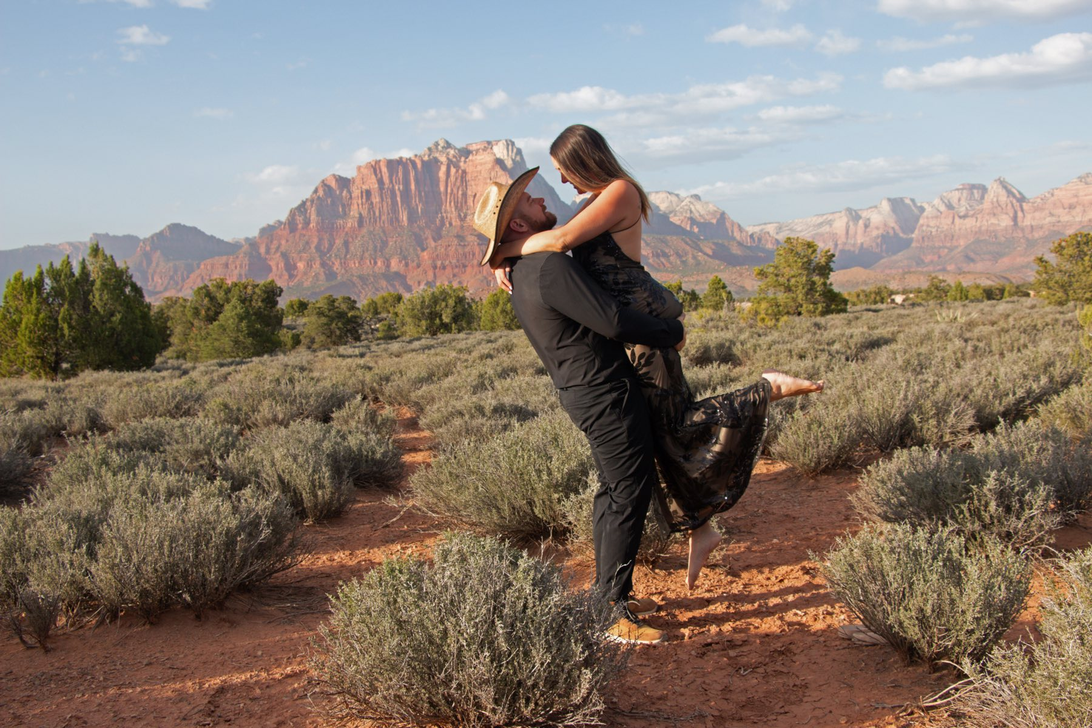
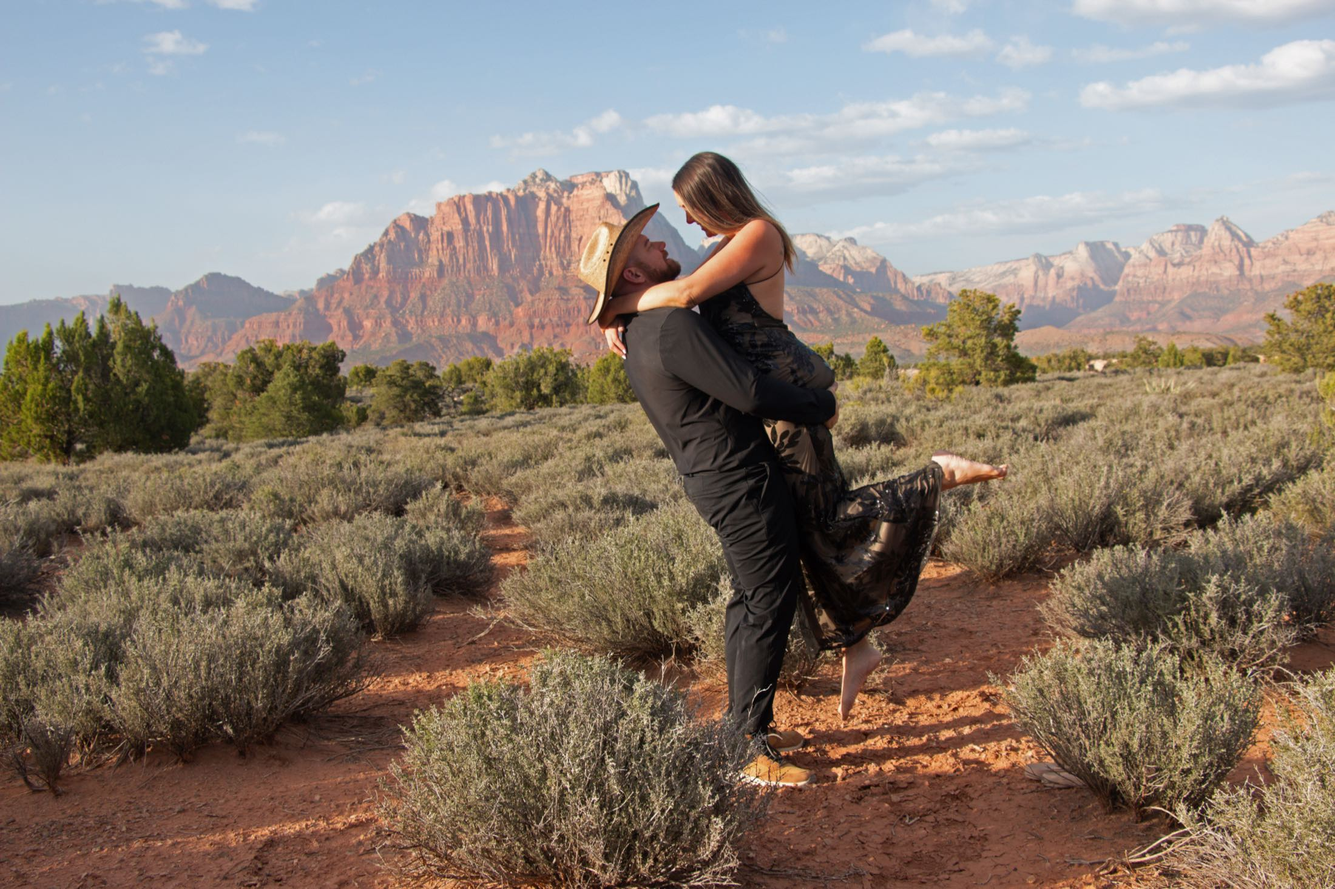
Run the home photo the full width of the page
Goes from 85vw to a true full-bleed 100vw, with the max-width dropped —
it would otherwise stop short of the edge on a wide screen, which is the
opposite of the point.

hero-banner.jpg is regenerated at 2200px wide instead of 1800px so it is
not upscaled at full width on a large monitor. Quality comes down a
notch to hold the size near where it was: 461KB against 427KB.

Still uncropped, so the height follows the photo's 3:2 shape — about
853px at a 1280px window, 960px at 1440, 1280px at 1920.

diff --git a/index.htm b/index.htm
@@ -132,13 +132,12 @@
 
   /* ── Hero Photo Banner ── */
   /* ── Home hero photo ──
-     Width tracks the nav: the tabs span 82-87% of the window, so 85vw runs
-     out to roughly where the first and last tab words sit. */
+     Full-bleed, and uncropped, so its height follows the photo's own 3:2
+     shape: about 960px tall on a 1440px-wide window. */
   .hero-banner{
     position:relative;
-    width:85vw;
-    max-width:1800px;
-    left:50%;transform:translateX(-50%);
+    width:100vw;
+    margin-left:calc(50% - 50vw);
     margin-top:-1.25rem;
   }
   .hero-banner-img{
